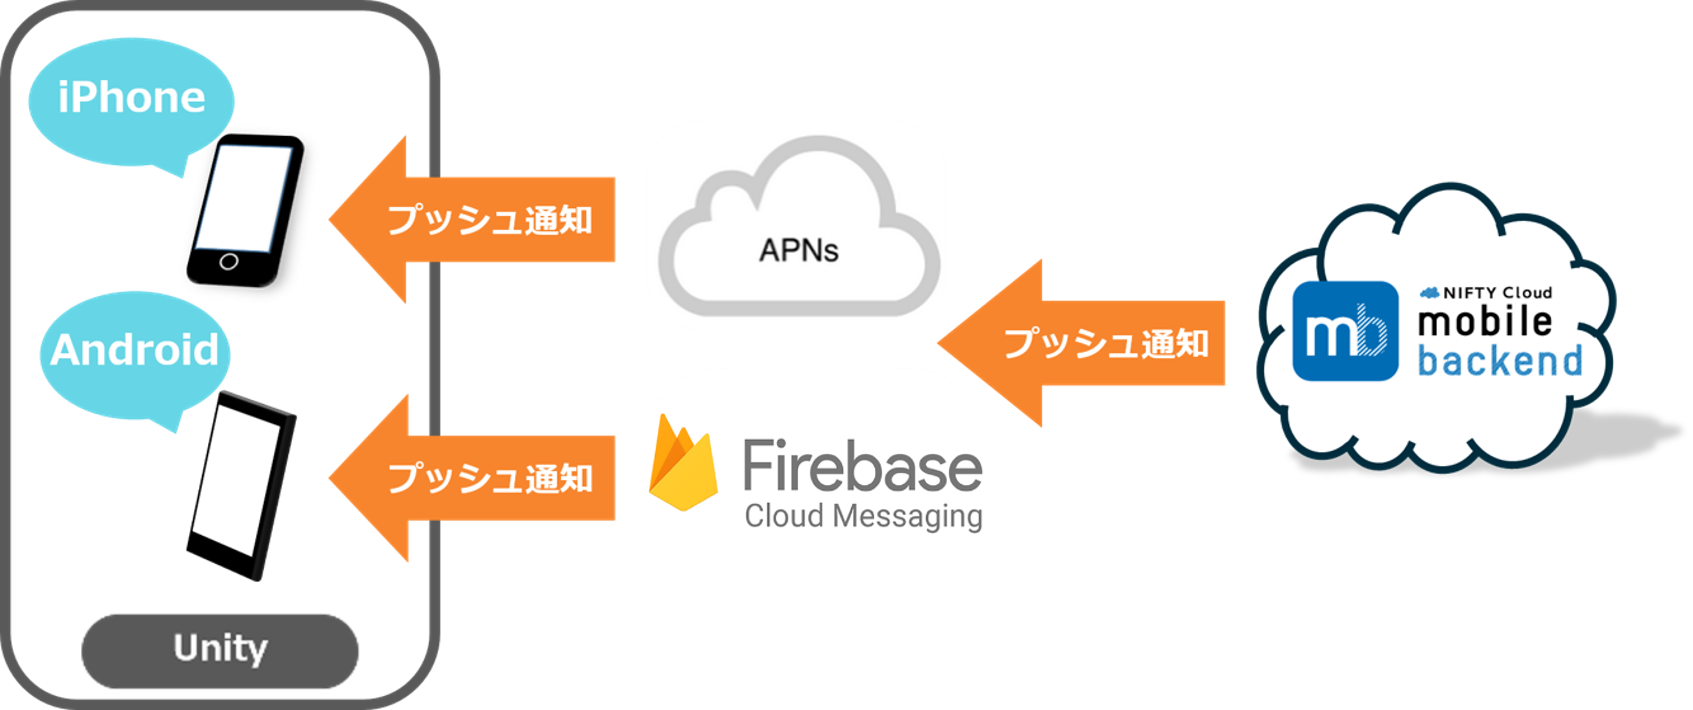
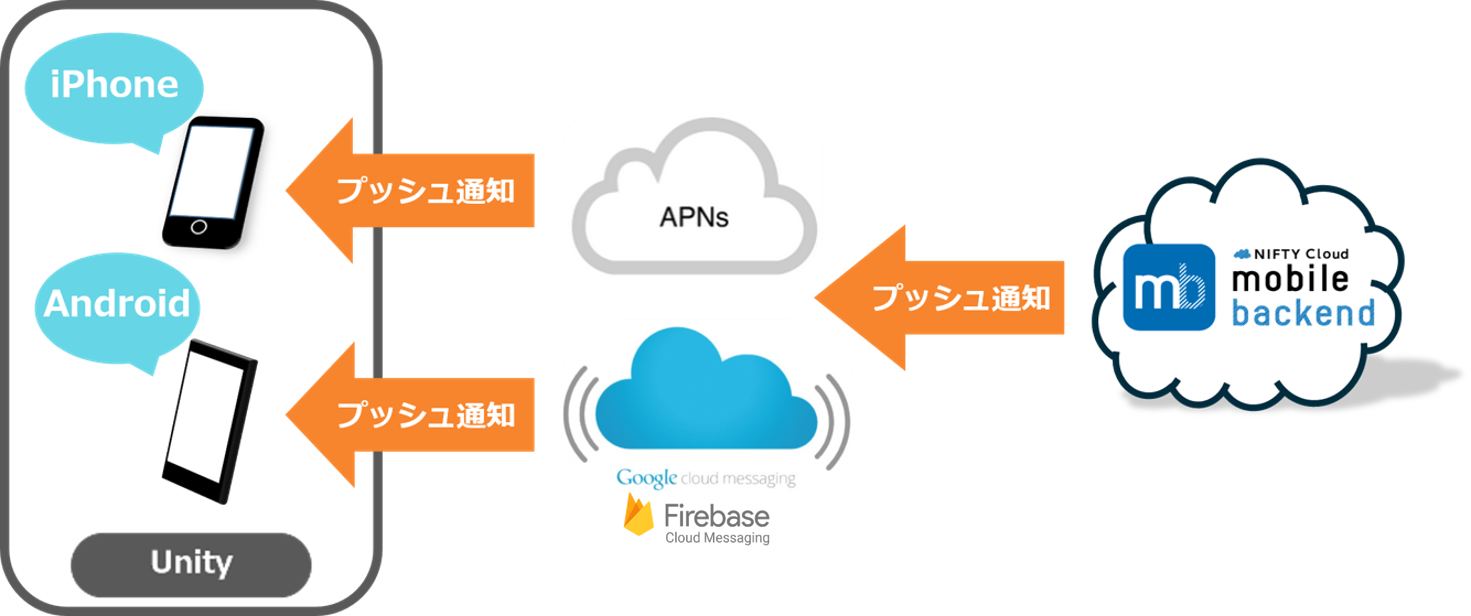
update GCM to FCM 3
・画像修正
・ドキュメント修正
　→注意書きの追加
　→リンクの修正

Changed region(s): [[0.3671, 0.5244, 0.5812, 0.7711], [0.3977, 0.7711, 0.5506, 0.8945], [0.7954, 0.4318, 0.826, 0.4935]]

diff --git a/README.md b/README.md
@@ -37,6 +37,7 @@
  * Androidの通知サービス __FCM（Firebase Cloud Messaging）__
 
  ![画像a1](/readme-img/a001.png)
+ ※ FCMはGCM(Google Cloud Messaging)の新バージョンです。既にGCMにてプロジェクトの作成・GCMの有効化設定を終えている場合は、継続してご利用いただくことが可能です。新規でGCMをご利用いただくことはできませんので、あらかじめご了承ください。
 
  * iOSの通知サービス　__APNs（Apple Push Notification Service）__
 
@@ -52,7 +53,7 @@
 #### Android端末で動作確認をする場合
 * ニフティクラウド mobile backendと連携させるためのAPIキー(サーバーキー)と端末情報の登録処理時に必要なSender ID(送信者ID)を取得する必要があります
 * 下記リンク先のドキュメントを参考に、FCMプロジェクトの作成とAPIキー・Sender IDの取得を行ってください
- * __[mobile backendとFCMの連携に必要な設定](https://github.com/NIFTYCloud-mbaas/ncmb_doc/blob/hotfix/fcm_changes/doc/current/tutorial/push_setup_android.html)__
+ * __[mobile backendとFCMの連携に必要な設定](http://mb.cloud.nifty.com/doc/current/tutorial/push_setup_android.html)__
 
 #### iOS端末で動作確認をする場合
 * Android端末と違い、作業が少し複雑です
